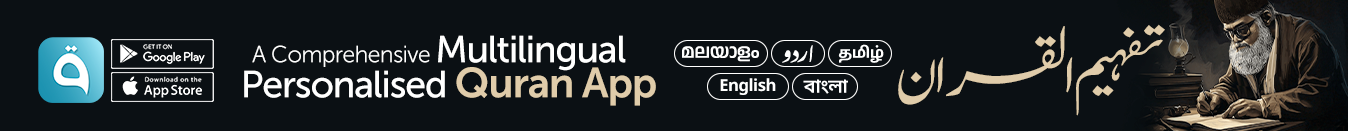
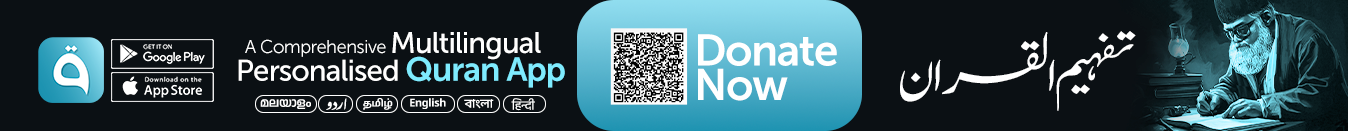
donation test

diff --git a/src/sections/Donation.tsx b/src/sections/Donation.tsx
@@ -1,18 +1,11 @@
 import { useEffect, useRef, useState } from 'react';
-import { Heart, Shield, User, Mail, Phone } from 'lucide-react';
-import { Button } from '@/components/ui/button';
-import { useDonationCheckout } from '@/hooks/useDonationCheckout';
+import { Heart, Shield } from 'lucide-react';
 
-const PRESET_AMOUNTS = [100, 500, 1000, 5000];
+const RAZORPAY_DONATION_URL = 'https://pages.razorpay.com/thafheem-donation';
 
 const Donation = () => {
   const [isVisible, setIsVisible] = useState(false);
-  const [amount, setAmount] = useState<string>('');
-  const [donorName, setDonorName] = useState('');
-  const [donorEmail, setDonorEmail] = useState('');
-  const [donorPhone, setDonorPhone] = useState('');
   const sectionRef = useRef<HTMLDivElement>(null);
-  const { isLaunchingCheckout, startDonation } = useDonationCheckout();
 
   useEffect(() => {
     const observer = new IntersectionObserver(
@@ -31,23 +24,6 @@ const Donation = () => {
 
     return () => observer.disconnect();
   }, []);
-
-  const handleDonate = () => {
-    const rupees = Number(amount);
-    if (!amount || isNaN(rupees) || rupees < 1) {
-      window.alert('Please enter a valid amount (minimum ₹1).');
-      return;
-    }
-    if (!donorName.trim()) {
-      window.alert('Please enter your name.');
-      return;
-    }
-    startDonation(rupees, {
-      name: donorName.trim(),
-      email: donorEmail.trim(),
-      phone: donorPhone.trim(),
-    });
-  };
 
   return (
     <section
@@ -105,87 +81,15 @@ const Donation = () => {
                 delivering reliable Quran learning features for everyone.
               </p>
 
-              {/* Donor Info Fields */}
-              <div className="space-y-3 mb-5">
-                <div className="relative">
-                  <User className="absolute left-3 top-1/2 -translate-y-1/2 w-4 h-4 text-[#a0aec0]" />
-                  <input
-                    type="text"
-                    placeholder="Your name *"
-                    value={donorName}
-                    onChange={(e) => setDonorName(e.target.value)}
-                    className="w-full pl-10 pr-4 py-3 rounded-xl border border-gray-200 text-sm text-[#1a1a2e] focus:outline-none focus:ring-2 focus:ring-[#0d9ba8] focus:border-transparent placeholder:text-[#a0aec0]"
-                  />
-                </div>
-                <div className="grid grid-cols-2 gap-3">
-                  <div className="relative">
-                    <Mail className="absolute left-3 top-1/2 -translate-y-1/2 w-4 h-4 text-[#a0aec0]" />
-                    <input
-                      type="email"
-                      placeholder="Email"
-                      value={donorEmail}
-                      onChange={(e) => setDonorEmail(e.target.value)}
-                      className="w-full pl-10 pr-4 py-3 rounded-xl border border-gray-200 text-sm text-[#1a1a2e] focus:outline-none focus:ring-2 focus:ring-[#0d9ba8] focus:border-transparent placeholder:text-[#a0aec0]"
-                    />
-                  </div>
-                  <div className="relative">
-                    <Phone className="absolute left-3 top-1/2 -translate-y-1/2 w-4 h-4 text-[#a0aec0]" />
-                    <input
-                      type="tel"
-                      placeholder="Phone"
-                      value={donorPhone}
-                      onChange={(e) => setDonorPhone(e.target.value)}
-                      className="w-full pl-10 pr-4 py-3 rounded-xl border border-gray-200 text-sm text-[#1a1a2e] focus:outline-none focus:ring-2 focus:ring-[#0d9ba8] focus:border-transparent placeholder:text-[#a0aec0]"
-                    />
-                  </div>
-                </div>
-              </div>
-
-              {/* Preset Amount Buttons */}
-              <div className="grid grid-cols-4 gap-2 mb-4">
-                {PRESET_AMOUNTS.map((preset) => (
-                  <button
-                    key={preset}
-                    type="button"
-                    onClick={() => setAmount(String(preset))}
-                    className={`py-2 rounded-lg text-sm font-medium transition-all duration-200 border ${
-                      amount === String(preset)
-                        ? 'bg-[#0d9ba8] text-white border-[#0d9ba8]'
-                        : 'bg-[#f8fafb] text-[#1a1a2e] border-gray-200 hover:border-[#0d9ba8] hover:text-[#0d9ba8]'
-                    }`}
-                  >
-                    ₹{preset.toLocaleString('en-IN')}
-                  </button>
-                ))}
-              </div>
-
-              {/* Custom Amount Input */}
-              <div className="relative mb-6">
-                <span className="absolute left-4 top-1/2 -translate-y-1/2 text-lg font-semibold text-[#4a5568]">
-                  ₹
-                </span>
-                <input
-                  type="number"
-                  min="1"
-                  placeholder="Enter custom amount"
-                  value={amount}
-                  onChange={(e) => setAmount(e.target.value)}
-                  className="w-full pl-9 pr-4 py-4 rounded-xl border border-gray-200 text-lg font-semibold text-[#1a1a2e] focus:outline-none focus:ring-2 focus:ring-[#0d9ba8] focus:border-transparent placeholder:font-normal placeholder:text-[#a0aec0]"
-                />
-              </div>
-
-              <Button
+              <a
+                href={RAZORPAY_DONATION_URL}
+                target="_blank"
+                rel="noopener noreferrer"
                 className="w-full bg-[#0d9ba8] hover:bg-[#0a7a85] text-white py-6 rounded-xl text-lg font-semibold transition-all duration-300 hover:shadow-xl hover:shadow-[#0d9ba8]/30 flex items-center justify-center gap-2"
-                onClick={handleDonate}
-                disabled={isLaunchingCheckout}
               >
                 <Heart className="w-5 h-5" />
-                {isLaunchingCheckout
-                  ? 'Opening...'
-                  : amount
-                    ? `Support ₹${Number(amount).toLocaleString('en-IN')}`
-                    : 'Support Now'}
-              </Button>
+                Support Now
+              </a>
 
               <div className="flex items-center justify-center gap-2 mt-4 text-sm text-[#4a5568]">
                 <Shield className="w-4 h-4" />
